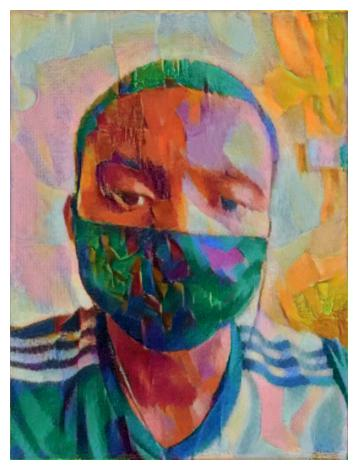
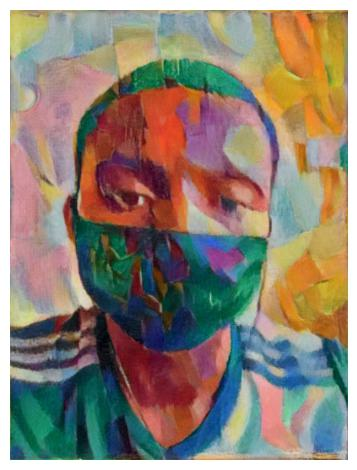
added delaunay style image

diff --git a/README.md b/README.md
@@ -1,0 +1,13 @@
+# Neural Style Transfer
+
+An implementation of neural style transfer, inspired by an assignment in the [Introduction to Deep Learning with Pytorch](https://www.udacity.com/course/deep-learning-pytorch--ud188) course on Udacity. <br>
+The VGG19 model pretrained on the imagenet dataset was used as the feature extractor.
+
+
+content image <br>
+<img src="./images/image.jpg" height=400> <br>
+style image <br>
+<img src="./images/hockney.jpg" height=400> <br>
+
+generated image <br>
+<img src="./images/davidcn_hockney.jpg" height=400> <br>
